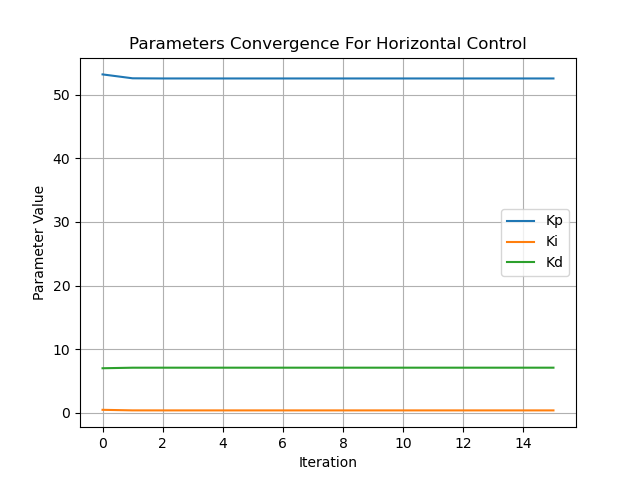
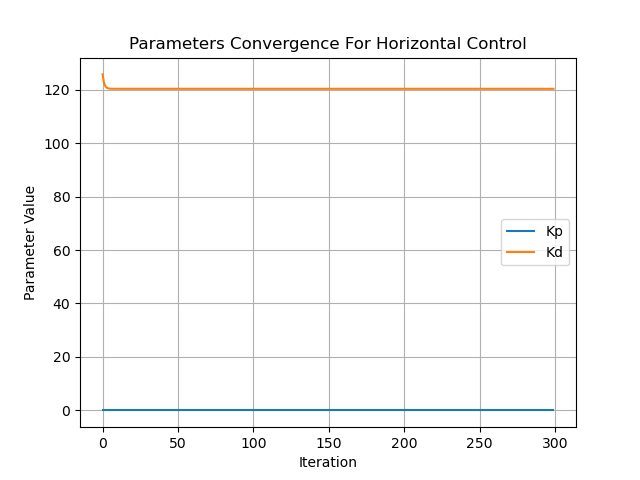
finish pd

diff --git a/main.py b/main.py
@@ -16,16 +16,18 @@ fig_format = 'png'  # Format used for saving matplotlib's figures
 # fig_format = 'svg'
 # Defining PSO hyperparameters
 hyperparams = Params()
-hyperparams.num_particles = 60
-hyperparams.inertia_weight = 0.2
+hyperparams.num_particles = 40
+hyperparams.inertia_weight = 0.4
 hyperparams.cognitive_parameter = 0.6
 hyperparams.social_parameter = 0.8
-lower_bound = np.array([30, 0.0, 0.0])
-upper_bound = np.array([100, 10, 10.0])
+lower_bound_x = np.array([ 0, 100.0])
+upper_bound_x = np.array([ 3, 150.0])
+lower_bound_theta = np.array([ 0, 100.0])
+upper_bound_theta = np.array([ 5, 150.0])
 # lower_bound = np.array([10.0, 0.0, 0.0])
 # upper_bound = np.array([200.0, 1300.0, 30.0])
-pso = ParticleSwarmOptimization(hyperparams, lower_bound, upper_bound)
-pso_theta = ParticleSwarmOptimization(hyperparams, lower_bound, upper_bound)
+pso = ParticleSwarmOptimization(hyperparams, lower_bound_x, upper_bound_x)
+pso_theta = ParticleSwarmOptimization(hyperparams, lower_bound_theta,upper_bound_theta)
 def plot_results():
 	"""
 	Plots the results of the optimization.
@@ -33,7 +35,7 @@ def plot_results():
 	fig_format = 'png'
 	plt.figure()
 	plt.plot(position_x_history)
-	plt.legend(['Kp', 'Ki', 'Kd'])
+	plt.legend(['Kp', 'Kd'])
 	plt.xlabel('Iteration')
 	plt.ylabel('Parameter Value')
 	plt.title('Parameters Convergence For Horizontal Control')
@@ -42,7 +44,7 @@ def plot_results():
 
 	plt.figure()
 	plt.plot(position_theta_history)
-	plt.legend(['Kp', 'Ki', 'Kd'])
+	plt.legend(['Kp', 'Kd'])
 	plt.xlabel('Iteration')
 	plt.ylabel('Parameter Value')
 	plt.title('Parameters Convergence for Theta Control')
@@ -98,15 +100,6 @@ control_posic = PIDController(1, 0, 100, 1)
 
 
 for episodes in range(1, NUM_EPISODES + 1):
-	# Reset the environment
-	# position = pso.get_position_to_evaluate()
-	# controller_params = convert_particle_position_to_params(position)
-	# control_posic.set_gains(controller_params.kp, controller_params.ki, controller_params.kd)
-
-	# position_theta = pso_theta.get_position_to_evaluate()
-	# controller_params_theta = convert_particle_position_to_params(position_theta)
-	# control_theta.set_gains(controller_params_theta.kp, controller_params_theta.ki, controller_params_theta.kd)
-
 
 	state = env.reset()
 	# This reshape is needed to keep compatibility with Keras
@@ -133,22 +126,21 @@ for episodes in range(1, NUM_EPISODES + 1):
 
 	pso_theta.notify_evaluation(cumulative_reward)
 	pso.notify_evaluation(cumulative_reward)
-	if episodes % hyperparams.num_particles == 0:
-		pso.advance_generation()
-		pso_theta.advance_generation()
-		best_posic = pso.get_best_position()
-		best_theta = pso_theta.get_best_position()
-		position_x_history.append(np.array(best_posic))
-		position_theta_history.append(np.array(best_theta))
+	pso.advance_generation()
+	pso_theta.advance_generation()
+	best_posic = pso.get_best_position()
+	best_theta = pso_theta.get_best_position()
+	position_x_history.append(np.array(best_posic))
+	position_theta_history.append(np.array(best_theta))
   
 	position = pso.get_position_to_evaluate()
 	controller_params = convert_particle_position_to_params(position)
-	control_posic.set_gains(controller_params.kp, controller_params.ki, controller_params.kd)
+	control_posic.set_gains(controller_params.kp, 0, controller_params.kd)
 
 	position_theta = pso_theta.get_position_to_evaluate()
 	controller_params_theta = convert_particle_position_to_params(position_theta)
-	control_theta.set_gains(controller_params_theta.kp, controller_params_theta.ki, controller_params_theta.kd)
-# plot_results()
+	control_theta.set_gains(controller_params_theta.kp, 0, controller_params_theta.kd)
+plot_results()
 plt.pause(1.0)
 
 #visualize 

diff --git a/constants.py b/constants.py
@@ -1,4 +1,4 @@
 THETA_REF = 0
 POSITION_REF = 0
 SAMPLE_TIME = 1
-NUM_EPISODES = 1000
+NUM_EPISODES = 300
